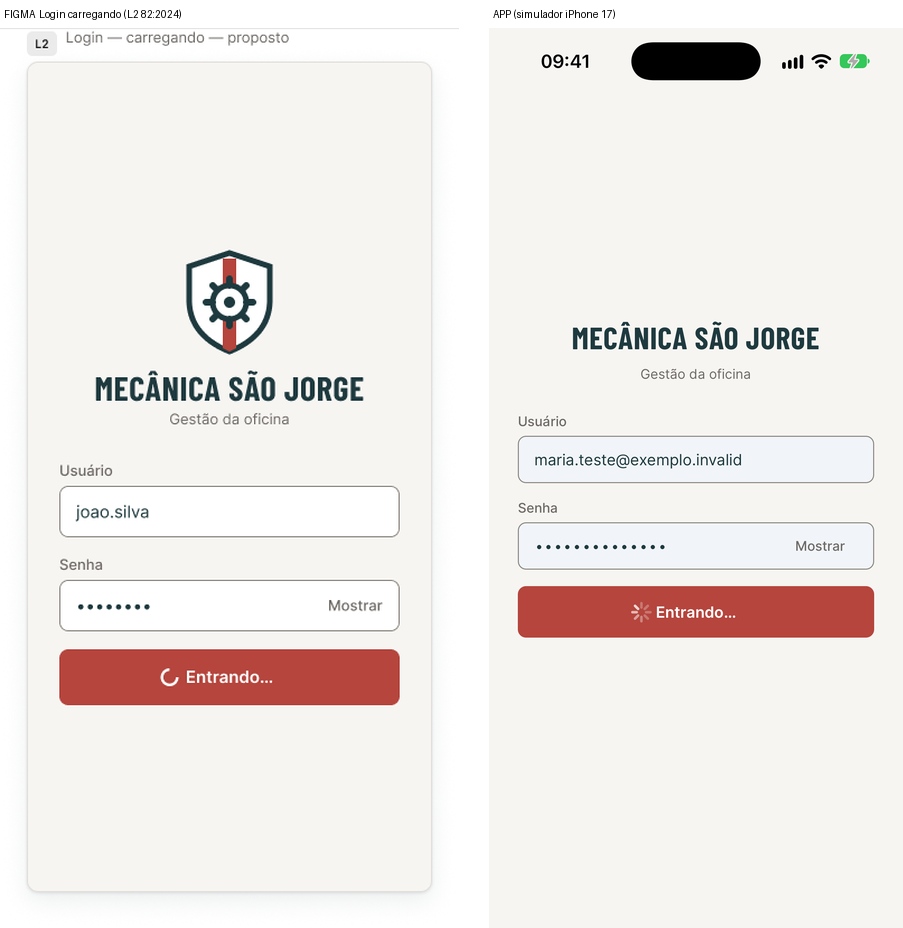
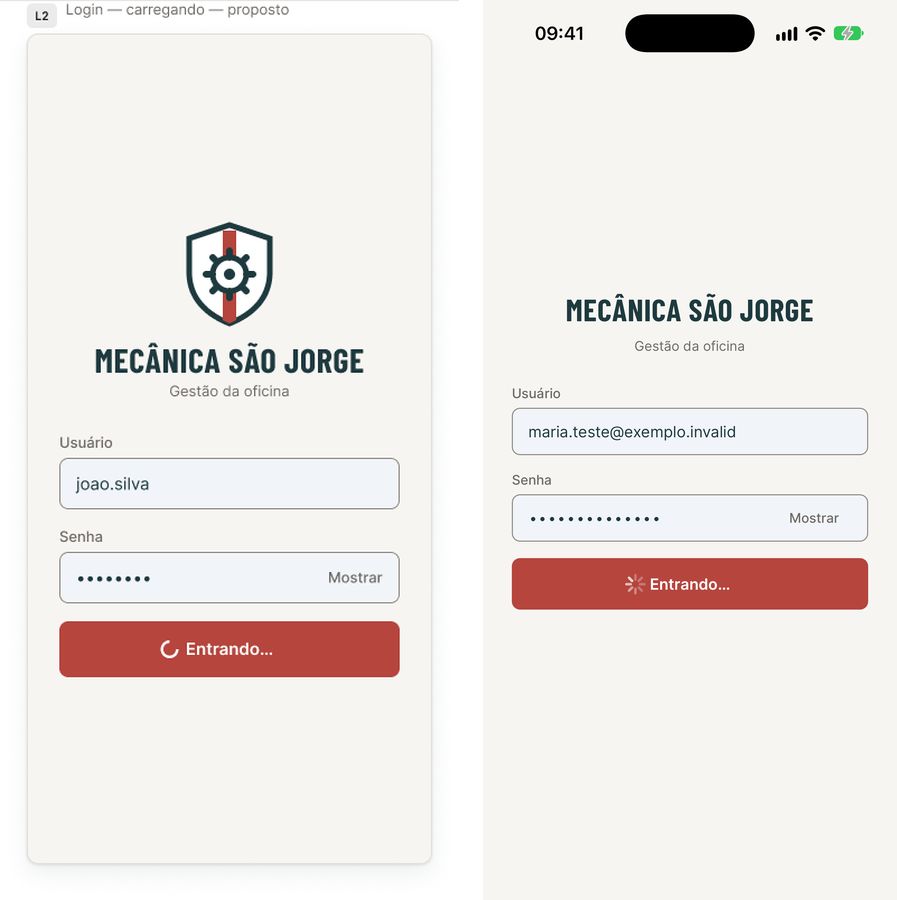
docs(design): rebuild the L2 and 10:936 side-by-side pairs with the 17/11 Figma PNGs (F41)

diff --git a/docs/design/F41-capturas-app-orla.md b/docs/design/F41-capturas-app-orla.md
@@ -38,6 +38,17 @@ Rota temporária `apps/mobile/app/capture.tsx` (**apagada, nunca commitada**) qu
 
 Arquivos em `docs/design/f41-capturas/app-2026-11-16-orla/`: `app-<estado>.png` (captura crua) e `lado-a-lado-<estado>.png` (Figma à esquerda, app à direita, altura 900). Cada um tem no máximo 233 KB.
 
+## Atualização de 17/11 (ORLA): dois pares remontados, capturas do app mantidas
+
+Depois das edições do ESQUADRO em 17/11 (R-15 no L2 e O-2 no `10:936`, `F41-valores-fpdb8.md` §20), o lado Figma de dois pares estava desatualizado. Reexportei só o lado esquerdo com os PNGs novos de `final-2026-11-16/` e **mantive as capturas do app**: elas são de 16/11 às 22:02 (`12c5e78`) e o último commit que mexeu em código do app antes delas é `c242b6f` (21:55); depois delas só entrou teste (`c21436c`). Não refiz foto no simulador nesta rodada.
+
+| Par | Lado Figma | md5 do par novo | O que mostra |
+|---|---|---|---|
+| `lado-a-lado-login-carregando.png` | L2 `82:2024` (md5 `2aa84cf0…`) | `881180d700e226f0a72d1158c51f6603` | campos cinza-azulados (`#F1F5F9`) nos dois lados; indicador à esquerda do texto "Entrando…". Diferenças: escudo (L-02, aberto), indicador nativo (O-3, só de plataforma), barra de status e largura |
+| `lado-a-lado-login-credencial.png` | `10:936` (md5 `edbf416b…`) | `a9cf46b74f2586afeabc1798f664fbdb` | "Mostrar" no campo Senha nos dois lados (O-2 fechada a favor do código). Diferenças: escudo, barra de status e largura |
+
+Os outros 9 pares não foram remontados: o hash do PNG do Figma de cada um é idêntico ao já versionado (`F41-valores-fpdb8.md` §20.5). Abri os dois pares novos depois de gravar. **Escudo:** segue ausente no app; não foi programado porque a licença (S-2) está sem registro, ver a entrega do ORLA de 17/11.
+
 ## Não capturado (e por quê)
 
 - **Tab bar com item selecionado** (`20:1102`, `20:1340`): o código nunca renderiza (`menu-tab-bar.tsx:62`, `selected={false}`). É o P-01, aguarda a pessoa.
